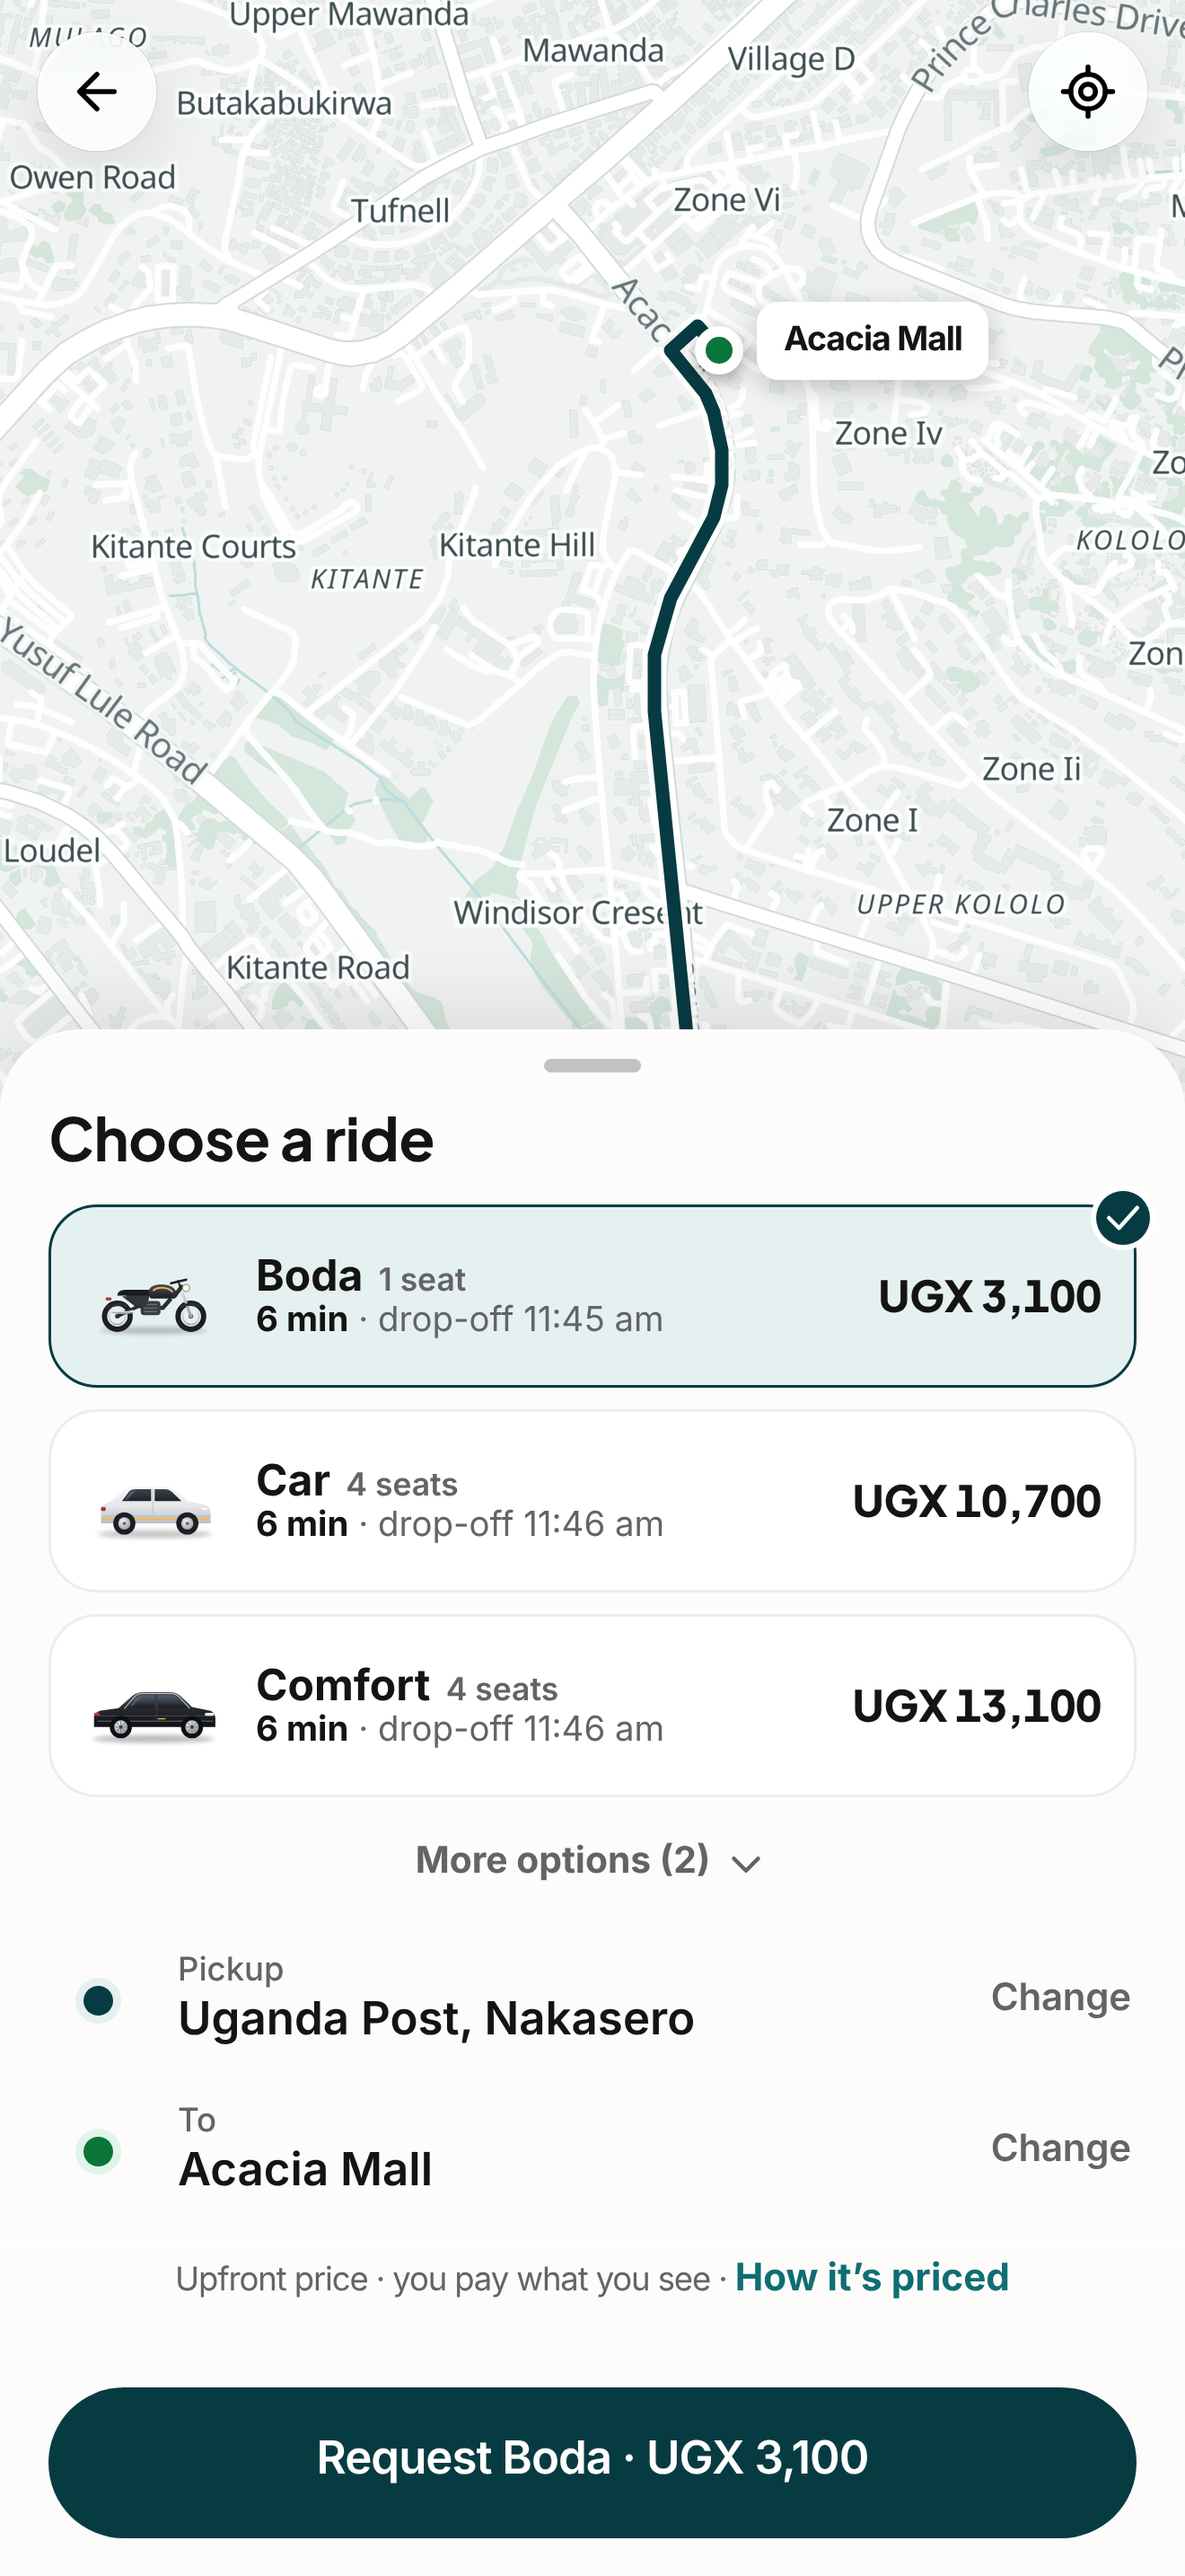
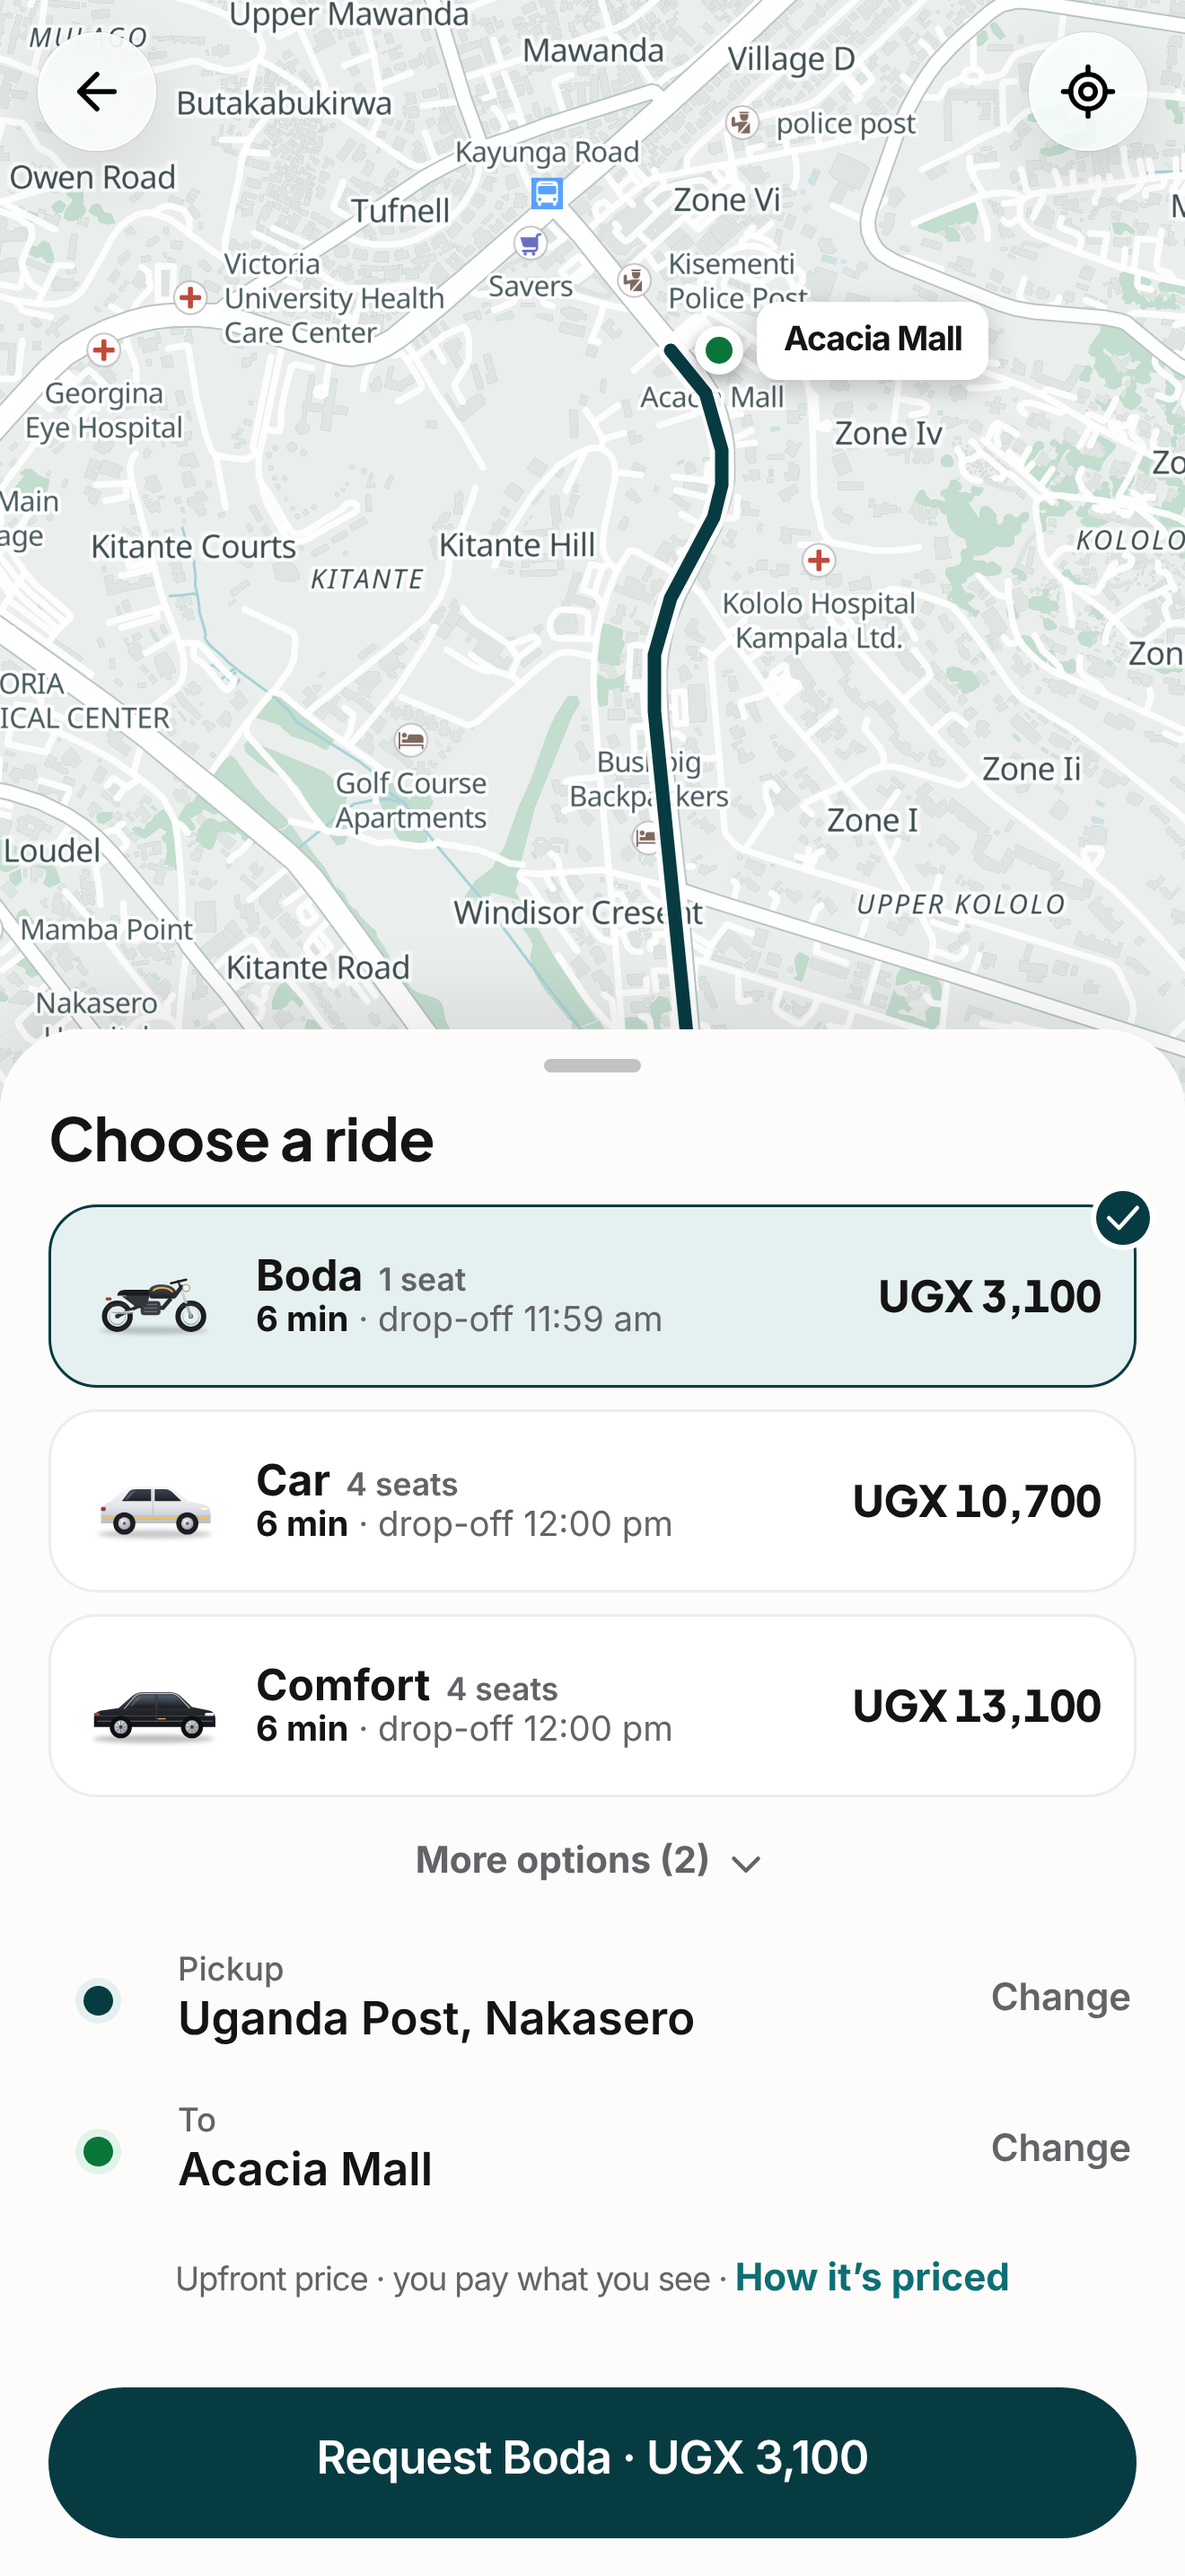
Map: landmarks back, stronger roads and a little more colour
- Landmarks people navigate by are back on the Flytte map: fuel stations,
  malls and supermarkets, markets, hospitals, banks, taxi and bus stages,
  hotels, places of worship, universities, police and stadiums, each as a
  small category icon with a muted name (never one without the other).
  The best-known ones from zoom 14, the rest from 15.5. They win over road
  names when space is tight and lose to area and town names.
- Roads stand out more (darker ground and casing), water and parks carry
  more teal and green; the dark map's main roads are lighter.
- Store screenshots regenerated; map style ?v=2, service worker v98.

Claude-Session: https://claude.ai/code/session_01CcmobfUGNujqeu9Na5c3yY

diff --git a/tools/map-style.js b/tools/map-style.js
@@ -1,4 +1,5 @@
-// Flytte's own map look: calm greys with soft teal water and parks, white roads, fewer labels,
+// Flytte's own map look: calm greys with soft teal water and parks, white roads, and the landmarks
+// people navigate by (fuel stations, malls, markets, hospitals, banks, stages) in small muted labels,
 // so the route, the pins and the vehicles stand out. Built from OpenFreeMap's Positron (light)
 // and Dark styles by recolouring their layers; the map data and fonts still come from OpenFreeMap.
 //   public/map/flytte-light.json   public/map/flytte-dark.json
@@ -8,16 +9,16 @@ const path = require('path');
 const OUT = path.join(__dirname, '..', 'public', 'map');
 
 const LIGHT = {
-  background: '#F3F5F4', residential: '#EEF1EF', park: '#DCEBE3', wood: '#D5E6DD', water: '#BCDCDF',
-  building: '#E6EBE9', buildingEdge: '#DAE1DE',
-  minor: '#FFFFFF', major: '#FFFFFF', casing: '#D3DBD9', path: '#E4E9E7', rail: '#D9DFDD', railDash: '#F3F5F4',
-  roadName: '#66777A', roadHalo: '#F3F5F4', place: '#0D2226', placeMinor: '#3F5053', placeHalo: '#FFFFFF', waterName: '#0E6E73', boundary: '#B9C4C2',
+  background: '#EDF0EF', residential: '#E8ECEA', park: '#CBE3D6', wood: '#C3DDCF', water: '#A6D2D8',
+  building: '#DFE5E2', buildingEdge: '#D2DAD7',
+  minor: '#FFFFFF', major: '#FFFFFF', casing: '#B9C6C3', path: '#DCE3E0', rail: '#CCD5D2', railDash: '#EDF0EF',
+  roadName: '#5A6B6E', roadHalo: '#EDF0EF', poi: '#4A5D60', place: '#0D2226', placeMinor: '#3F5053', placeHalo: '#FFFFFF', waterName: '#0E6E73', boundary: '#B9C4C2',
 };
 const DARK = {
   background: '#0A1416', residential: '#0C181A', park: '#0E221F', wood: '#0E221F', water: '#0B2B31',
   building: '#0D1B1E', buildingEdge: '#14282C',
-  minor: '#182A2D', major: '#213639', casing: '#0A1416', path: '#14262A', rail: '#1B2E31', railDash: '#0A1416',
-  roadName: '#7F9698', roadHalo: '#0A1416', place: '#C9D8D9', placeMinor: '#93A9AB', placeHalo: 'rgba(5,14,16,.8)', waterName: '#5FB3B7', boundary: '#2B4447',
+  minor: '#1B3033', major: '#2C484C', casing: '#0A1416', path: '#14262A', rail: '#1B2E31', railDash: '#0A1416',
+  roadName: '#8AA1A3', roadHalo: '#0A1416', poi: '#93A9AB', place: '#C9D8D9', placeMinor: '#93A9AB', placeHalo: 'rgba(5,14,16,.8)', waterName: '#5FB3B7', boundary: '#2B4447',
 };
 
 // Which colour each layer takes, by what the layer is.
@@ -56,6 +57,29 @@ function recolour(layer, c) {
   return layer;
 }
 
+// Landmarks people in Kampala navigate by: fuel stations, malls and supermarkets, markets,
+// hospitals, banks, taxi and bus stages, hotels, places of worship, universities, police, stadiums.
+// A small category icon with a muted name (never one without the other); the best-known ones
+// from zoom 14, the rest from 15.5. Icons come from OpenFreeMap's sprite.
+const LANDMARK = ['any',
+  ['match', ['get', 'class'], ['fuel', 'bank', 'bus', 'lodging', 'place_of_worship', 'college', 'police', 'stadium', 'grocery'], true, false],
+  ['match', ['get', 'subclass'], ['hospital', 'mall', 'supermarket', 'department_store', 'marketplace', 'bus_station', 'university'], true, false]];
+const ICON = ['match', ['get', 'subclass'],
+  'hospital', 'hospital', ['mall', 'department_store'], 'shop', ['supermarket', 'marketplace'], 'grocery', 'bus_station', 'bus', 'university', 'college',
+  ['match', ['get', 'class'], ['fuel', 'bank', 'bus', 'lodging', 'place_of_worship', 'college', 'police', 'stadium', 'grocery'], ['get', 'class'], 'shop']];
+const NAME = ['coalesce', ['get', 'name_en'], ['get', 'name']];
+function landmarks(c) {
+  const tier = (id, minzoom, rank) => ({
+    id: `landmark_${id}`, type: 'symbol', source: 'openmaptiles', 'source-layer': 'poi', minzoom,
+    filter: ['all', LANDMARK, ['has', 'name'], rank],
+    layout: { 'icon-image': ICON, 'icon-size': ['interpolate', ['linear'], ['zoom'], 14, 0.6, 18, 0.85],
+      'text-field': NAME, 'text-font': ['Noto Sans Regular'], 'text-size': ['interpolate', ['linear'], ['zoom'], 14, 10.5, 18, 12.5],
+      'text-variable-anchor': ['top', 'bottom', 'left', 'right'], 'text-radial-offset': 0.9, 'text-justify': 'auto', 'text-max-width': 8, 'text-padding': 3 },
+    paint: { 'text-color': c.poi, 'text-halo-color': c.placeHalo, 'text-halo-width': 1.3, 'icon-opacity': 0.9 },
+  });
+  return [tier('all', 15.5, ['>', ['get', 'rank'], 30]), tier('main', 14, ['<=', ['get', 'rank'], 30])];
+}
+
 (async () => {
   fs.mkdirSync(OUT, { recursive: true });
   for (const [name, base, c] of [['flytte-light', 'positron', LIGHT], ['flytte-dark', 'dark', DARK]]) {
@@ -68,6 +92,9 @@ function recolour(layer, c) {
     style.layers = style.layers
       .filter((l) => l.source !== 'ne2_shaded' && !/shield|oneway/.test(l.id))
       .map((l) => recolour(l, c));
+    // Landmarks win over road names when space is tight, and lose to area and town names.
+    const firstPlace = style.layers.findIndex((l) => l.type === 'symbol' && l['source-layer'] === 'place');
+    style.layers.splice(firstPlace < 0 ? style.layers.length : firstPlace, 0, ...landmarks(c));
     style.metadata = { ...(style.metadata || {}), 'flytte:base': `OpenFreeMap ${base}`, 'flytte:generated-by': 'tools/map-style.js' };
     fs.writeFileSync(path.join(OUT, name + '.json'), JSON.stringify(style));
     console.log('wrote', `public/map/${name}.json`, style.layers.length, 'layers');

diff --git a/public/js/common.js b/public/js/common.js
@@ -698,7 +698,7 @@
   // When iOS cuts the installed app short, the band under it takes the page's
   // background colour. Keep that colour matched to whatever is at the bottom of
   // the screen, so the band blends in: dark screens, the map, or the white sheet.
-  const STRIP_LIGHT = { dark: '#0E0E10', map: '#F3F5F4', sheet: '#FDFCFB', page: '#FFFFFF', grouped: '#F2F2F7' };
+  const STRIP_LIGHT = { dark: '#0E0E10', map: '#EDF0EF', sheet: '#FDFCFB', page: '#FFFFFF', grouped: '#F2F2F7' };
   const STRIP_DARK = { dark: '#0E0E10', map: '#0A1416', sheet: '#1C1C1E', page: '#000000', grouped: '#000000' };
   let STRIP = STRIP_LIGHT;
   let stripRaf;
@@ -1607,7 +1607,7 @@
   K.themePref = () => { try { return localStorage.getItem('flytte_theme') || 'light'; } catch { return 'light'; } };
   K.dark = () => document.documentElement.classList.contains('theme-dark');
   // Flytte's own map look (tools/map-style.js): calm greys, soft teal water and parks; map data from OpenFreeMap.
-  K.mapStyle = (dark) => `/map/flytte-${dark ? 'dark' : 'light'}.json?v=1`;
+  K.mapStyle = (dark) => `/map/flytte-${dark ? 'dark' : 'light'}.json?v=2`;
   const mqDark = matchMedia('(prefers-color-scheme: dark)');
   K.applyTheme = function () {
     const p = K.themePref(), dark = p === 'dark' || (p === 'auto' && mqDark.matches), was = K.dark();

diff --git a/public/css/app.css b/public/css/app.css
@@ -1010,7 +1010,7 @@ input, select, textarea { font-size: max(16px, 1em); }
    The pill itself stays clear of the Home Indicator. */
 .dock-edge { position: absolute; left: 0; right: 0; bottom: 0; z-index: 849; pointer-events: none;
   height: calc(max(8px, var(--sab) - 4px) + 36px);
-  background: linear-gradient(180deg, transparent 0%, color-mix(in srgb, var(--edge, #F3F5F4) 70%, transparent) 45%, var(--edge, #F3F5F4) 100%); }
+  background: linear-gradient(180deg, transparent 0%, color-mix(in srgb, var(--edge, #EDF0EF) 70%, transparent) 45%, var(--edge, #EDF0EF) 100%); }
 .tabbar.hidden + .dock-edge { display: none; }
 @media (min-width: 760px) { .dock-edge { display: none; } }
 

diff --git a/public/sw.js b/public/sw.js
@@ -8,7 +8,7 @@
 //   so they're served straight from the phone ("cache first") with no network wait.
 //   A new deploy has new ?v= links, so the new files are fetched once and kept.
 // - Maps, payments and live data are never cached.
-const VERSION = 'flytte-v97';
+const VERSION = 'flytte-v98';
 const ASSETS = 'flytte-assets';        // versioned js/css; kept across releases, trimmed below
 const SHELL = [
   '/offline.html', '/socket.io/socket.io.js', '/fonts/inter-latin-wght-normal.woff2', '/fonts/plus-jakarta-sans-latin-wght-normal.woff2',

diff --git a/tools/dark-css.py b/tools/dark-css.py
@@ -15,7 +15,7 @@ BG = {
   '#f2f2f7': '#000000', '#fdfcfb': '#1C1C1E', '#fafafa': '#1C1C1E', '#fbfbfd': '#1C1C1E',
   '#f7f7f9': '#2C2C2E', '#f5f5f7': '#2C2C2E', '#f2f2f5': '#2C2C2E', '#f4f4f6': '#2C2C2E', '#f6f6f8': '#2C2C2E',
   '#ececf0': '#3A3A3C', '#eaeaee': '#3A3A3C', '#ededf0': '#2C2C2E', '#e5e5ea': '#3A3A3C', '#efeff4': '#2C2C2E',
-  '#f8f5f0': '#0A1416', '#f3f5f4': '#0A1416', '#fff7db': '#3A2E12', '#e5f1f0': '#3A2E12', '#fdecec': '#3B1513', '#f7f7f7': '#2C2C2E', '#eee': '#2C2C2E', '#ddd': '#3A3A3C',
+  '#f8f5f0': '#0A1416', '#f3f5f4': '#0A1416', '#edf0ef': '#0A1416', '#fff7db': '#3A2E12', '#e5f1f0': '#3A2E12', '#fdecec': '#3B1513', '#f7f7f7': '#2C2C2E', '#eee': '#2C2C2E', '#ddd': '#3A3A3C',
 }
 # Areas that are dark on purpose, or brand-coloured, keep their colours.
 SKIP = re.compile(r'splash|rewards|pass-tick|\.sp-|auth-hero|auth-shade|\.req\b|\.wm|btn-primary|btn-danger|badge|\.hero|onboard|trip-banner|sos|\.dark|glass-back|toast|plate-chip|\.veh\b|leaflet|maplibre|pin-|map-label|cam|::selection|set-swatch|sw-|ch-wa|ch-tg|admin|qr', re.I)
